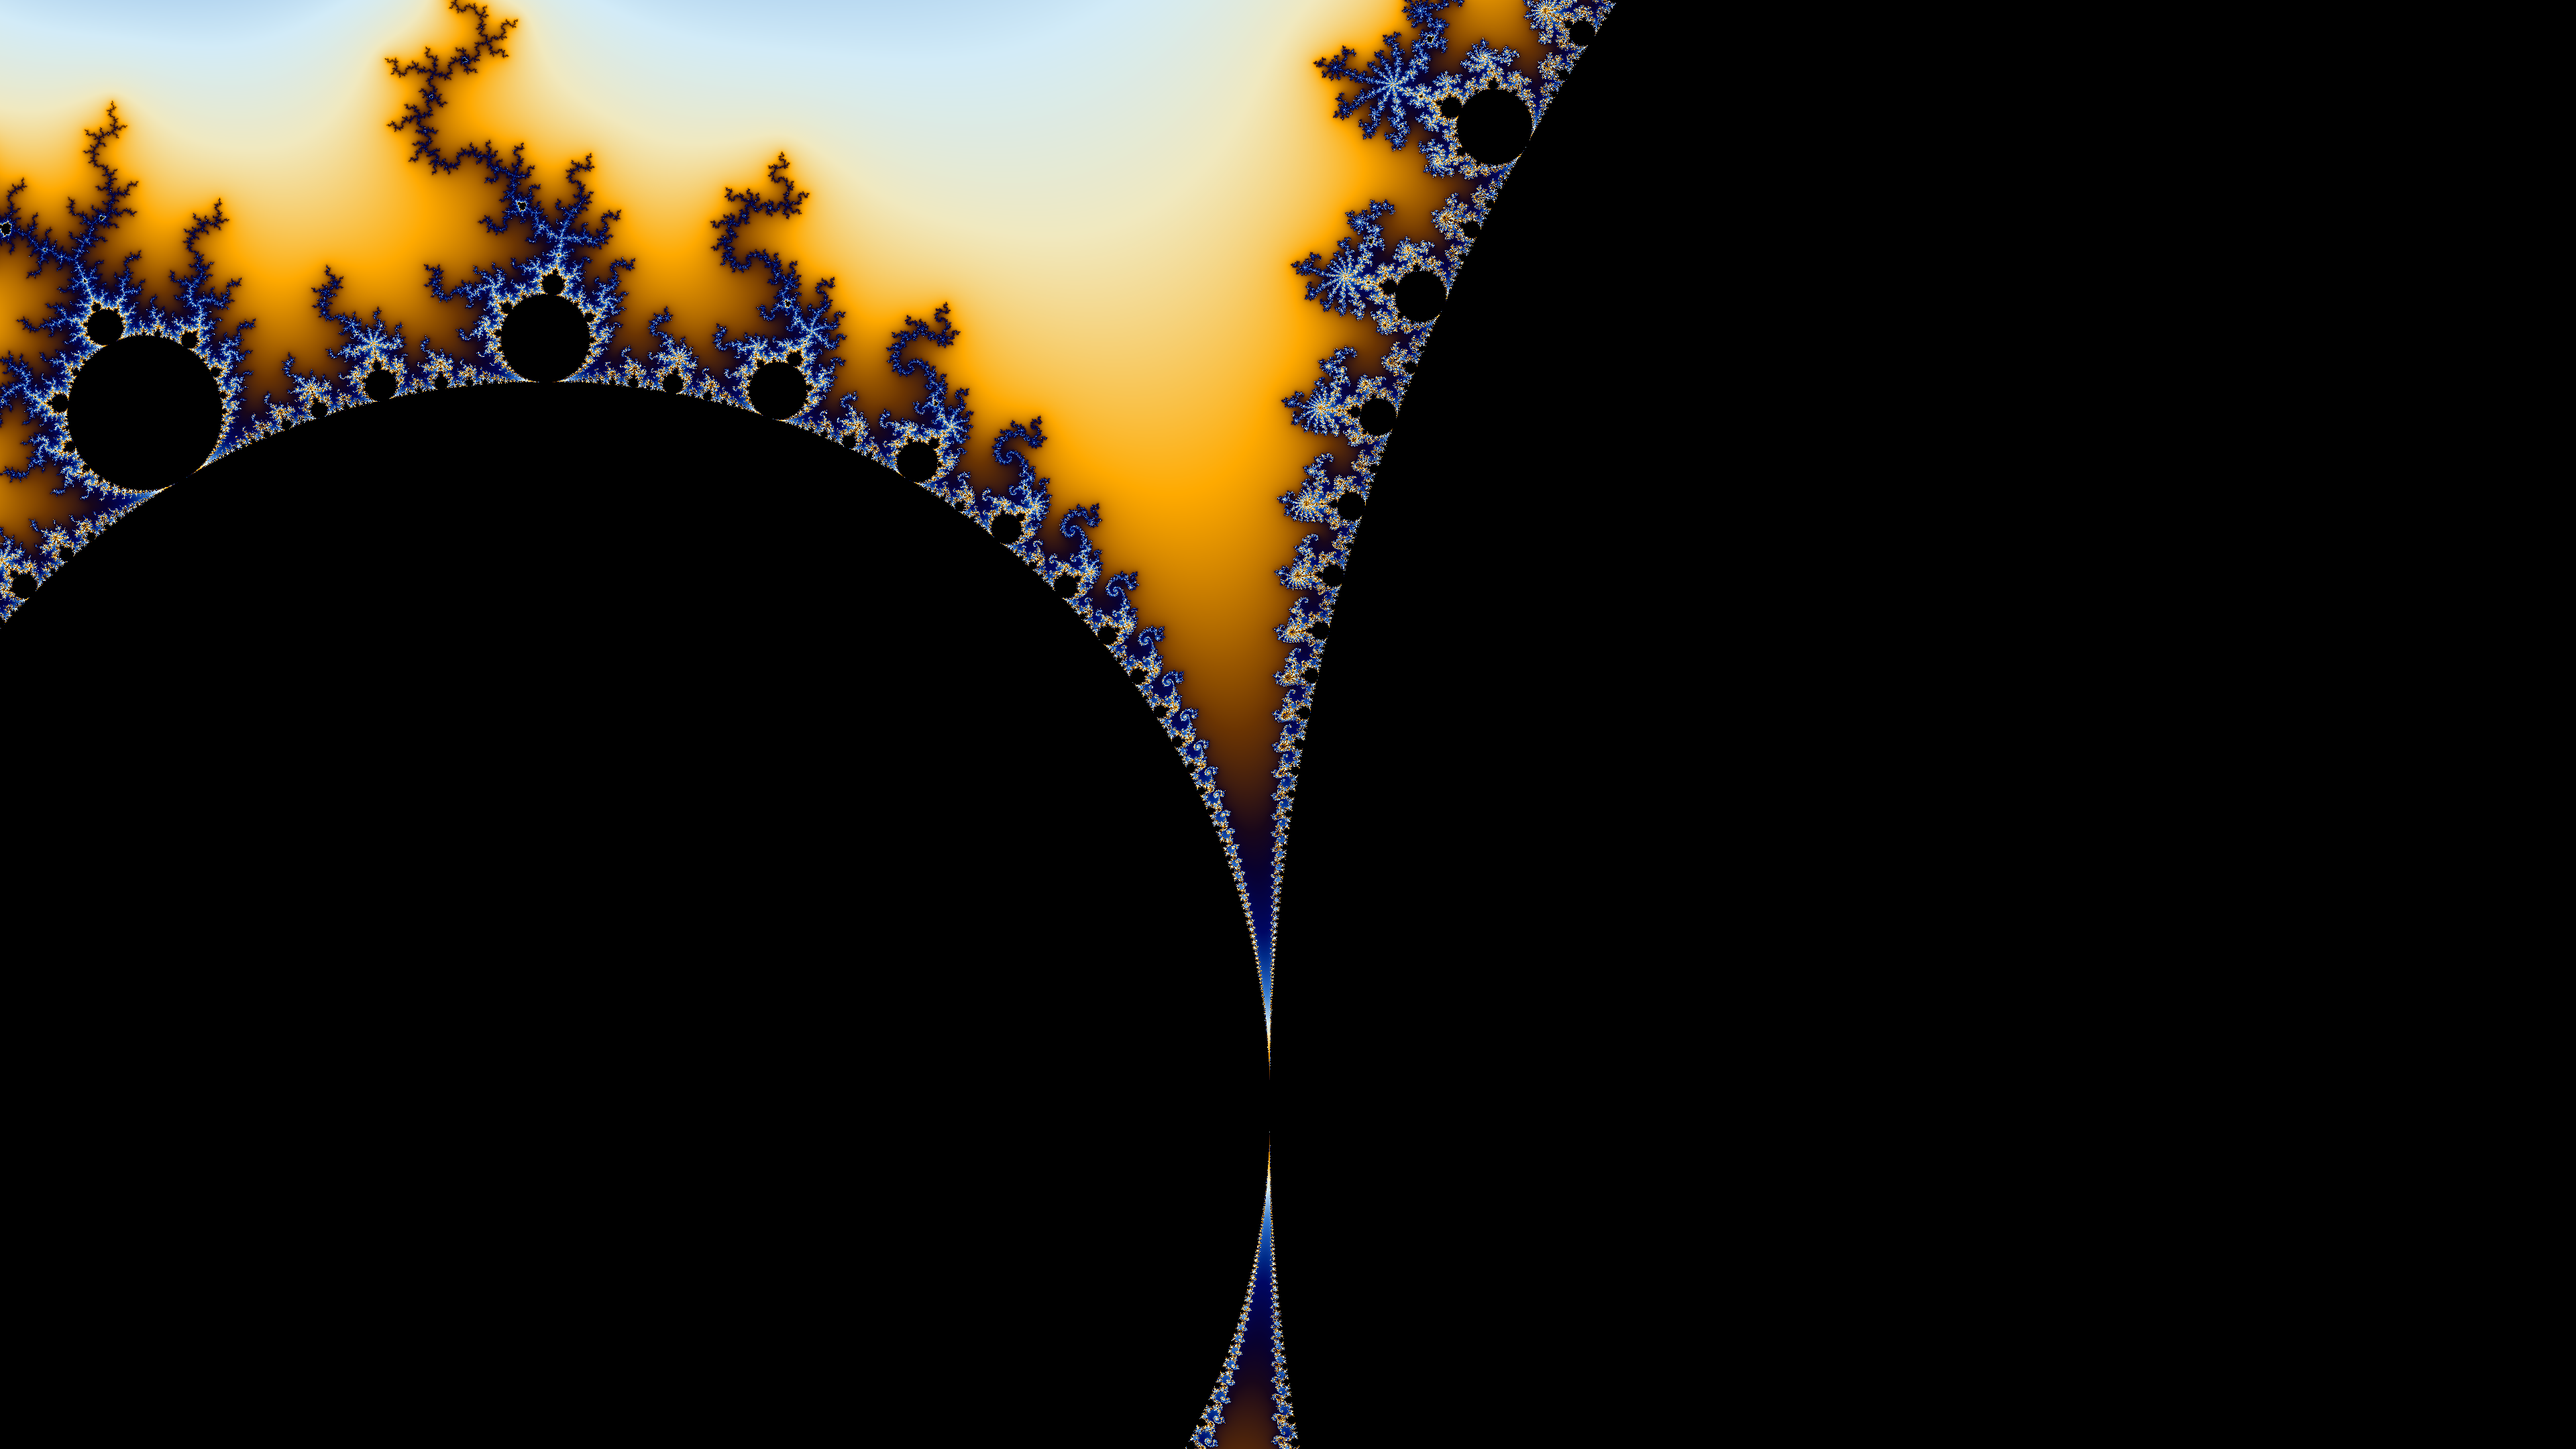
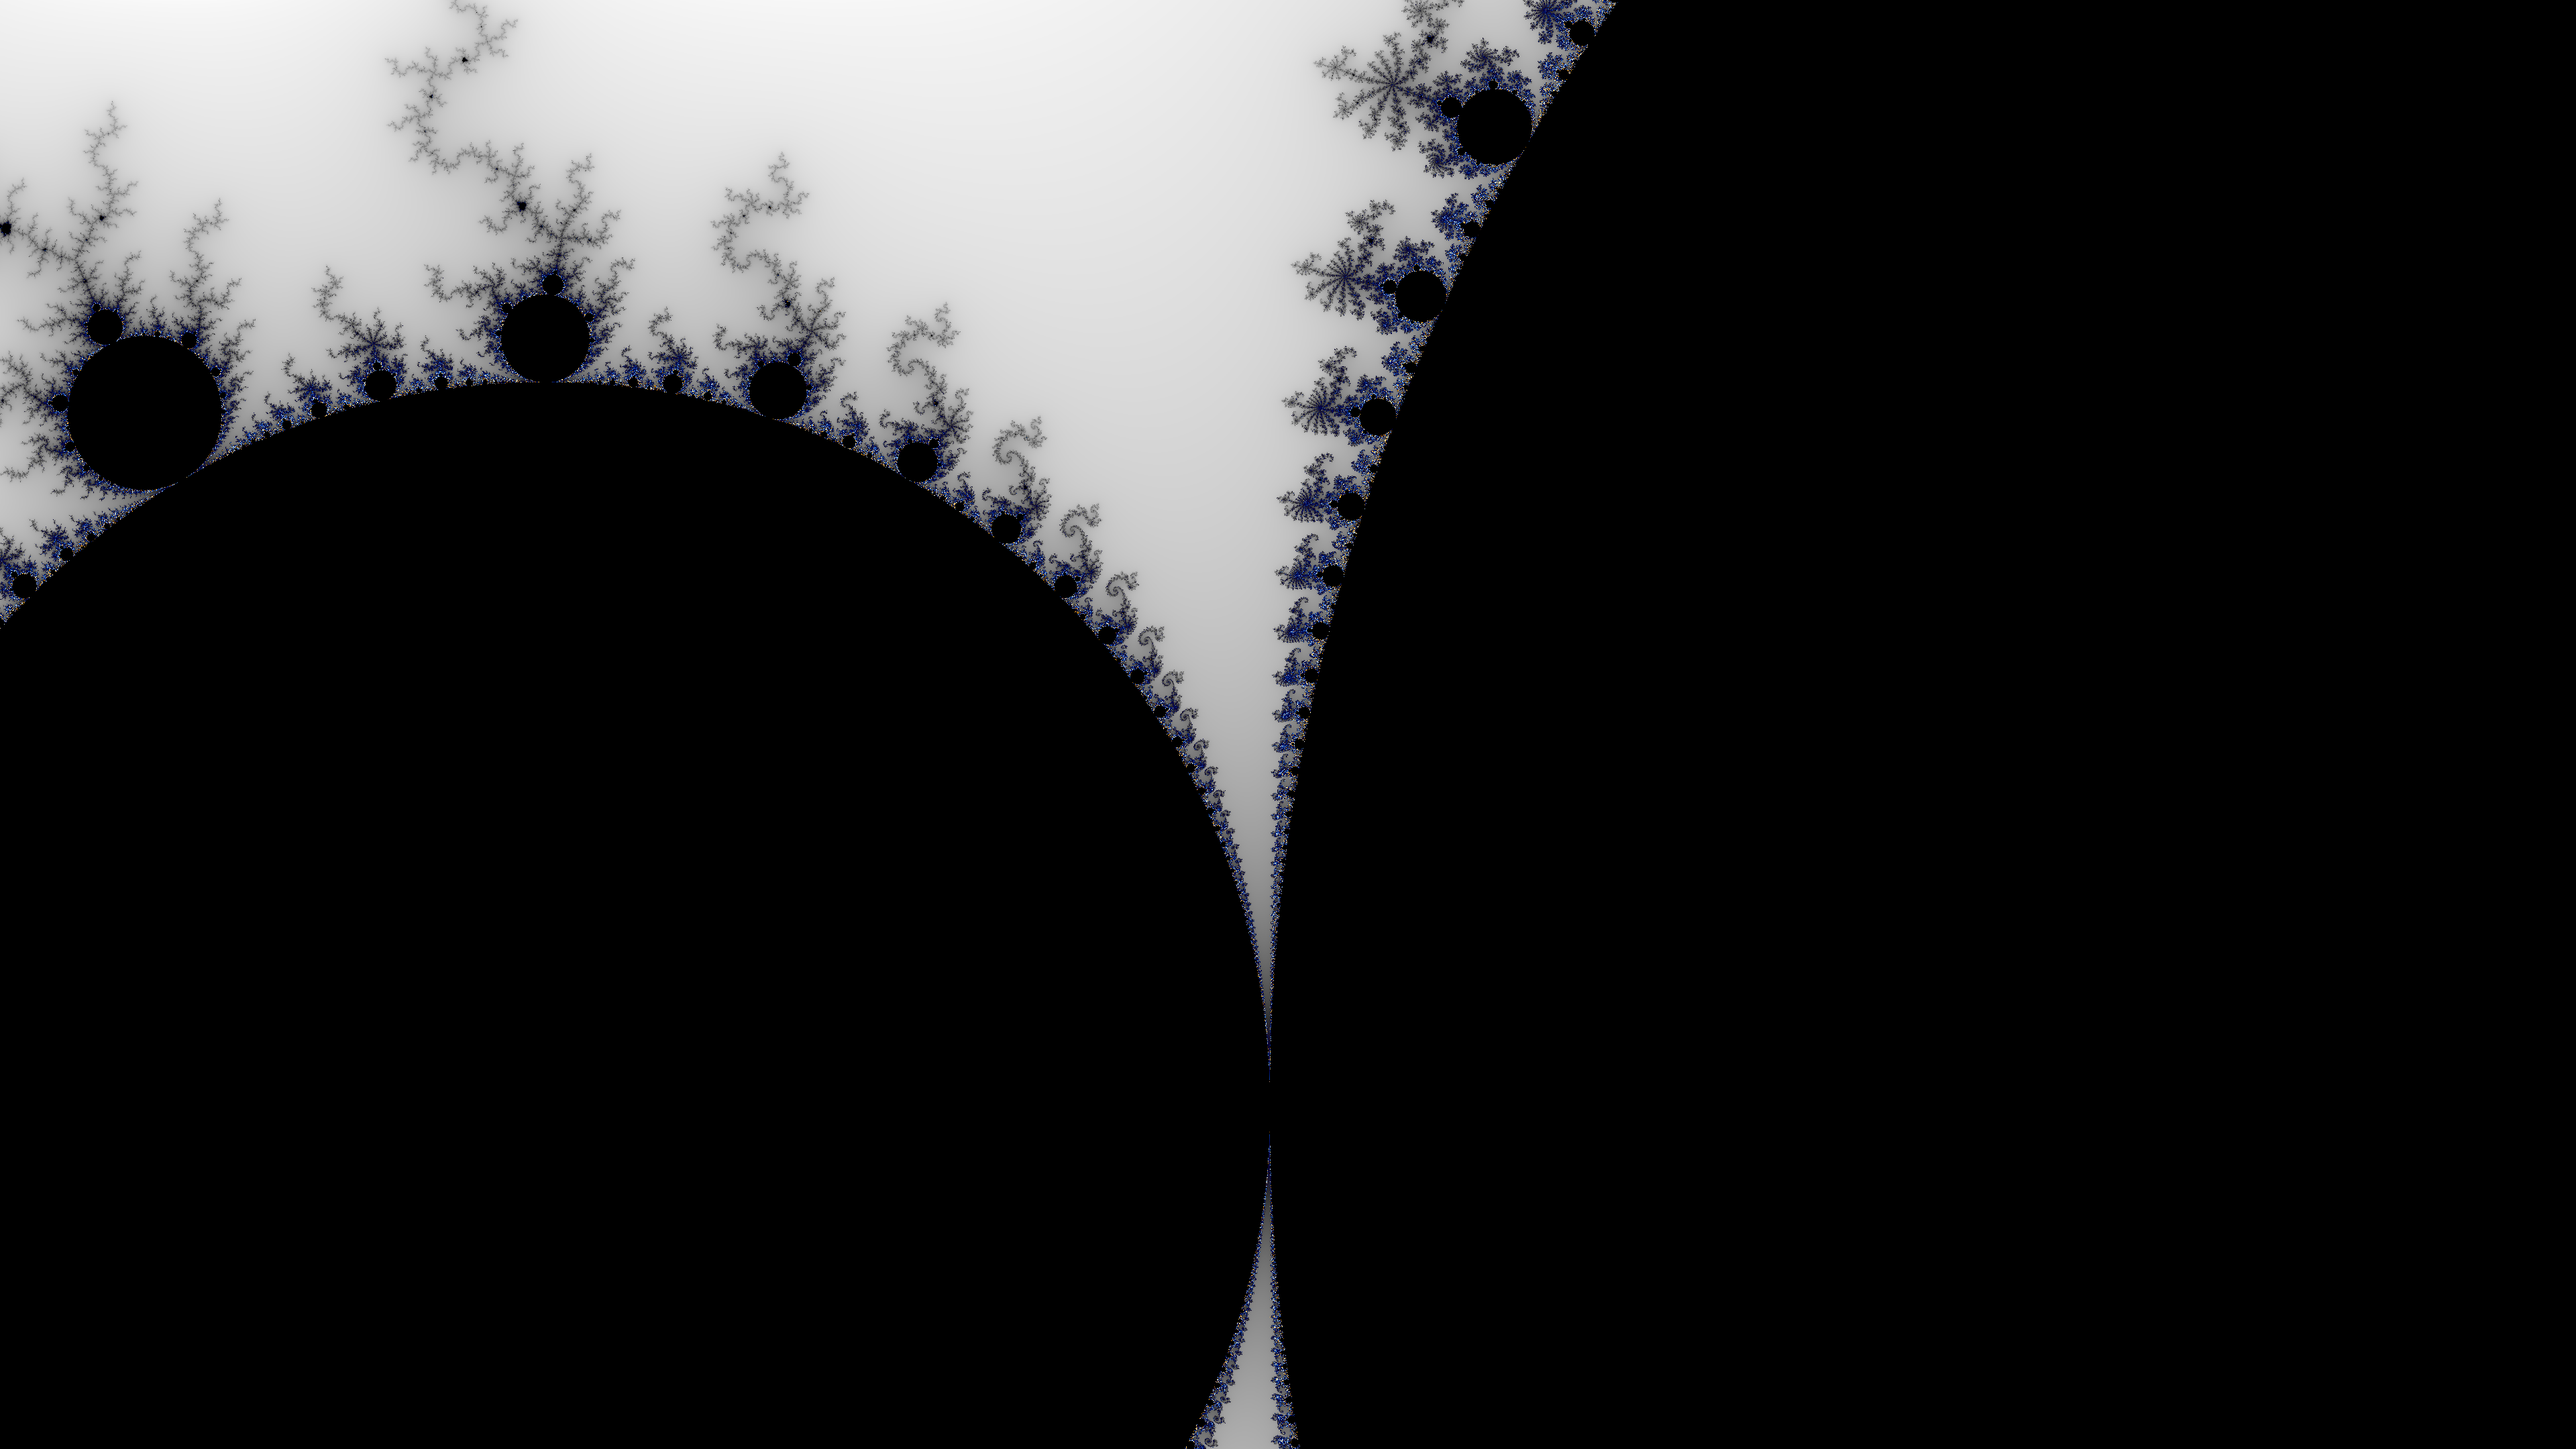
zoom working

Changed region(s): [[0.0, 0.0, 0.625, 0.6824], [0.4375, 0.8375, 0.5, 1.0]]

diff --git a/main.js b/main.js
@@ -1,78 +1,34 @@
-// Main
+const WIDTH = 3840;
+const HEIGHT = 2160;
+const NUM_IMGS = 51;
 
-window.onload = main;
-
-function main() {
-  init();
-  function loop() {
-    update();
-    window.requestAnimationFrame(loop);
-  }
-  window.requestAnimationFrame(loop);
-}
-
-var canvas = null;
-var mouse = null;
-var ripples = null;
+window.onload = init;
 
 function init() {
-  canvas = new Canvas();
-  document.addEventListener("mousemove", mouse_move);
-  document.addEventListener("click", click);
-  ripples = [];
+  let image_container = document.getElementById('image-container');
+  for (let i = 0; i < NUM_IMGS; i++) {
+    let image = document.createElement('img');
+    image.id = i;
+    image.src = 'images/' + i + '.png';
+    image.className = 'image';
+    image_container.appendChild(image);
+  }
+  update();
 }
 
 function update() {
-  // clear canvas
-  canvas.clear();
-  update_ripples();
-  draw_ripples();
-  // render canvas
-  canvas.render();
-}
-
-function mouse_move(event) {
-  let [x, y] = canvas.to_xyz(event.clientX, event.clientY);
-  mouse = {
-    x: x,
-    y: y,
-  };
-}
-
-function click() {
-  let ripple = {
-    x: mouse.x,
-    y: mouse.y,
-    r: 0,
-  };
-  ripples.push(ripple);
-}
-
-function update_ripples() {
-  for (let i = ripples.length - 1; i >= 0; i--) {
-    let ripple = ripples[i];
-    if (ripple.r > 5) {
-      ripples.splice(i, 1);
-    } else {
-      ripple.r += 0.05;
+  let curr = NUM_IMGS * Math.min(window.scrollY / (document.documentElement.scrollHeight - window.innerHeight), 0.999);
+  for (image of document.querySelectorAll('.image')) {
+    let i = parseInt(image.id);
+    if (curr < i || curr > i + 1) {
+      image.style.setProperty('visibility', 'hidden');
+      continue;
     }
+    image.style.setProperty('visibility', 'visible');
+    let scale = Math.min(2.0 ** (curr - i), 2.0);
+    image.style.setProperty('transform', 'scale(' + scale + ')');
+    let width = Math.max(window.innerHeight / window.innerWidth * WIDTH / HEIGHT, 1.0);
+    image.style.setProperty('width', 100 * width + '%');
   }
-}
-
-function draw_ripples() {
-  for (let ripple of ripples) {
-    let x = ripple.x;
-    let y = ripple.y;
-    let r = ripple.r;
-    let res = 1000;
-    let dtheta = 2 * Math.PI / res;
-    for (let i = 0; i < res; i++) {
-      let cos1 = Math.cos(i * dtheta);
-      let sin1 = Math.sin(i * dtheta);
-      let cos2 = Math.cos((i + 1) * dtheta);
-      let sin2 = Math.sin((i + 1) * dtheta);
-      canvas.triangle(x + r * cos1, y + r * sin1, 0, x + r * cos2, y + r * sin2, 0, x + (r - 0.01) * cos1, y + (r - 0.01) * sin1, 0, 1, 1, 1, 1 - r / 5);
-      canvas.triangle(x + (r - 0.01) * cos1, y + (r - 0.01) * sin1, 0,  x + r * cos2, y + r * sin2, 0, x + (r - 0.01) * cos2, y + (r - 0.01) * sin2, 0, 1, 1, 1, 1 - r / 5);
-    }
-  }
+  window.requestAnimationFrame(update);
 }

diff --git a/index.html b/index.html
@@ -1,16 +1,115 @@
 <!DOCTYPE html>
-<html>
+<html lang="en">
   <head>
-    <link href="index.css" rel="stylesheet">
+    <meta charset="UTF-8">
+    <title>Sho Kiami</title>
+    <link href="style.css" rel="stylesheet">
   </head>
-  <body style="background-color: black">
+  <body>
     <h1 id="title">Sho's Website</h1>
-    <canvas id="gl" width="1000px" height="1000px"></canvas>
-    <script src="https://cdnjs.cloudflare.com/ajax/libs/gl-matrix/2.8.1/gl-matrix-min.js"
-            integrity="sha512-zhHQR0/H5SEBL3Wn6yYSaTTZej12z0hVZKOv3TwCUXT1z5qeqGcXJLLrbERYRScEDDpYIJhPC1fk31gqR783iQ=="
-            crossorigin="anonymous" defer>
-    </script>
-    <script src="canvas.js"></script>
+    <div style="font-size: 100px;">
+      <br>
+      <br>
+      <br>
+      <br>
+      <br>
+      <br>
+      <br>
+      <br>
+      <br>
+      <br>
+      <br>
+      <br>
+      <br>
+      <br>
+      <br>
+      <br>
+      <br>
+      <br>
+      <br>
+      <br>
+      <br>
+      <br>
+      <br>
+      <br>
+      <br>
+      <br>
+      <br>
+      <br>
+      <br>
+      <br>
+      <br>
+      <br>
+      <br>
+      <br>
+      <br>
+      <br>
+      <br>
+      <br>
+      <br>
+      <br>
+      <br>
+      <br>
+      <br>
+      <br>
+      <br>
+      <br>
+      <br>
+      <br>
+      <br>
+      <br>
+      <br>
+      <br>
+      <br>
+      <br>
+      <br>
+      <br>
+      <br>
+      <br>
+      <br>
+      <br>
+      <br>
+      <br>
+      <br>
+      <br>
+      <br>
+      <br>
+      <br>
+      <br>
+      <br>
+      <br>
+      <br>
+      <br>
+      <br>
+      <br>
+      <br>
+      <br>
+      <br>
+      <br>
+      <br>
+      <br>
+      <br>
+      <br>
+      <br>
+      <br>
+      <br>
+      <br>
+      <br>
+      <br>
+      <br>
+      <br>
+      <br>
+      <br>
+      <br>
+      <br>
+      <br>
+      <br>
+      <br>
+      <br>
+      <br>
+      <br>
+    </div>
+    <div id="image-container"></div>
     <script src="main.js"></script>
   </body>
 </html>

diff --git a/style.css b/style.css
@@ -1,0 +1,16 @@
+#image-container {
+  height: 100vh;
+  width: 100%;
+  position: fixed;
+  top: 0;
+  left: 0;
+  z-index: -1;
+  display: flex;
+  justify-content: center;
+  align-items: center;
+}
+
+.image {
+  visibility: hidden;
+  position: fixed;
+}

diff --git a/mandelbrot.cc b/mandelbrot.cc
@@ -10,16 +10,16 @@
 #define DIR "images/"
 
 const std::vector<png::rgb_pixel> palette = {
-  {134, 181, 229}, {211, 236, 248}, {241, 233, 191}, {248, 201,  95},
-  {255, 170,   0}, {204, 128,   0}, {153,  87,   0}, {106,  52,   3},
-  { 66,  30,  15}, { 25,   7,  26}, {  9,   1,  47}, {  4,   4,  73},
-  {  0,   7, 100}, {  1,  44, 138}, { 24,  82, 177}, { 57, 125, 209}, 
+  {250, 250, 250}, {200, 200, 200}, {150, 150, 150}, {100, 100, 100}, { 50,  50,  50}, {  9,   1,  47}, {  4,   4,  73},
+  {  0,   7, 100}, {  1,  44, 138}, { 24,  82, 177}, { 57, 125, 209}, {134, 181, 229}, {211, 236, 248}, {241, 233, 191},
+  {248, 201,  95}, {255, 170,   0}, {204, 128,   0}, {153,  87,   0}, {106,  52,   3}, { 25,   7,  26}, { 66,  30,  15},
 };
 
 void render(long double real, long double imag, long double zoom, int max_itr, std::string filename) {
   const int bailout = 1024;
-  png::image<png::rgb_pixel> image(WIDTH, HEIGHT);
   int percent = 0;
+  double min_itr = max_itr;
+  std::vector<double> itrs = std::vector<double>(WIDTH * HEIGHT);
   for (int i = 0; i < HEIGHT; i++) {
     for (int j = 0; j < WIDTH; j++) {
       long double c_r = 4.0 * (j - WIDTH / 2) / std::min(WIDTH, HEIGHT) / zoom + real;
@@ -35,15 +35,10 @@ void render(long double real, long double imag, long double zoom, int max_itr, s
         z_i2 = z_i * z_i;
         if (z_r2 + z_i2 > bailout * bailout) {
           double itr_cont = itr + 1.0 - log2(0.5 * log(z_r2 + z_i2) / log(bailout));
-          double idx_cont = 7.0 * log(itr_cont + 1.0);
-          int idx = idx_cont;
-          double p = idx_cont - idx;
-          png::rgb_pixel color_1 = palette[idx % palette.size()];
-          png::rgb_pixel color_2 = palette[(idx + 1) % palette.size()];
-          int r = (1.0 - p) * color_1.red + p * color_2.red;
-          int g = (1.0 - p) * color_1.green + p * color_2.green;
-          int b = (1.0 - p) * color_1.blue + p * color_2.blue;
-          image[i][j] = png::rgb_pixel(r, g, b);
+          itrs[i * WIDTH + j] = itr_cont;
+          if (itr_cont < min_itr) {
+            min_itr = itr_cont;
+          }
           break;
         }
       }
@@ -53,7 +48,27 @@ void render(long double real, long double imag, long double zoom, int max_itr, s
       }
     }
   }
+  std::cout << filename + ": saving..." << std::endl;
+  png::image<png::rgb_pixel> image = png::image<png::rgb_pixel>(WIDTH, HEIGHT);
+  for (int i = 0; i < HEIGHT; i++) {
+    for (int j = 0; j < WIDTH; j++) {
+      double itr_cont = itrs[i * WIDTH + j];
+      if (itr_cont == 0.0) {
+        continue;
+      }
+      double idx_cont = std::pow((itr_cont - min_itr) / (max_itr - min_itr), 0.6) * palette.size();
+      int idx = idx_cont;
+      double p = idx_cont - idx;
+      png::rgb_pixel color_1 = palette[idx % palette.size()];
+      png::rgb_pixel color_2 = palette[(idx + 1) % palette.size()];
+      int r = (1.0 - p) * color_1.red + p * color_2.red;
+      int g = (1.0 - p) * color_1.green + p * color_2.green;
+      int b = (1.0 - p) * color_1.blue + p * color_2.blue;
+      image[i][j] = png::rgb_pixel(r, g, b);
+    }
+  }
   image.write(DIR + filename);
+  std::cout << filename + ": done!" << std::endl;
 }
 
 int main() {
@@ -62,7 +77,7 @@ int main() {
   std::filesystem::create_directory(DIR);
   for (int i = 0; i <= 50; i++) {
     long double zoom = pow(2.0, i);
-    int max_itr = 1000 * pow(zoom, 0.13);
+    int max_itr = 1000 * pow(zoom, 0.2);
     render(real, imag, zoom, max_itr, std::to_string(i) + ".png");
   }
   return EXIT_SUCCESS;
